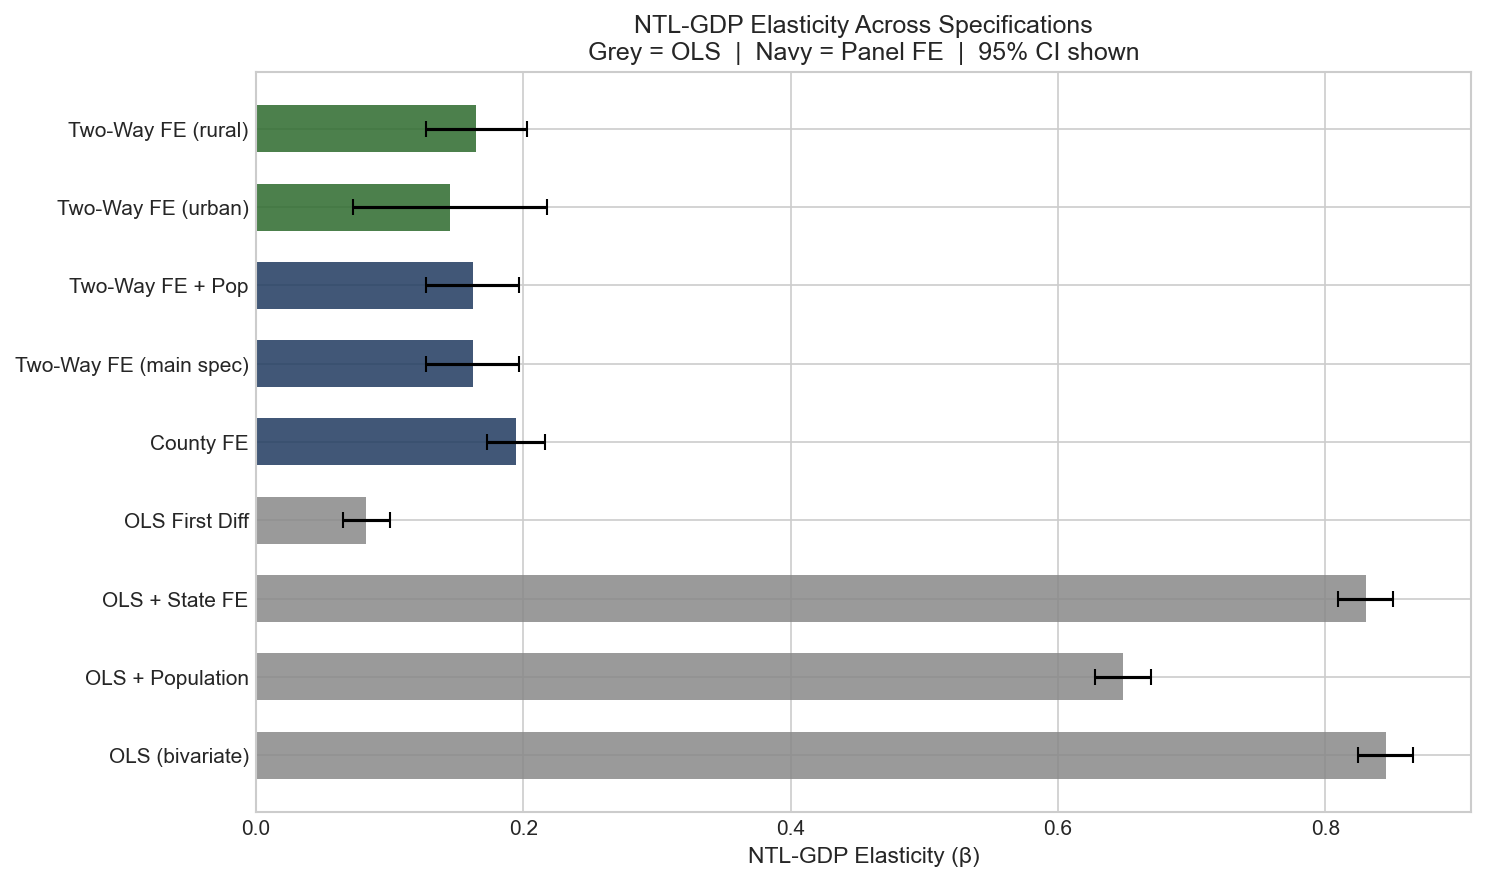
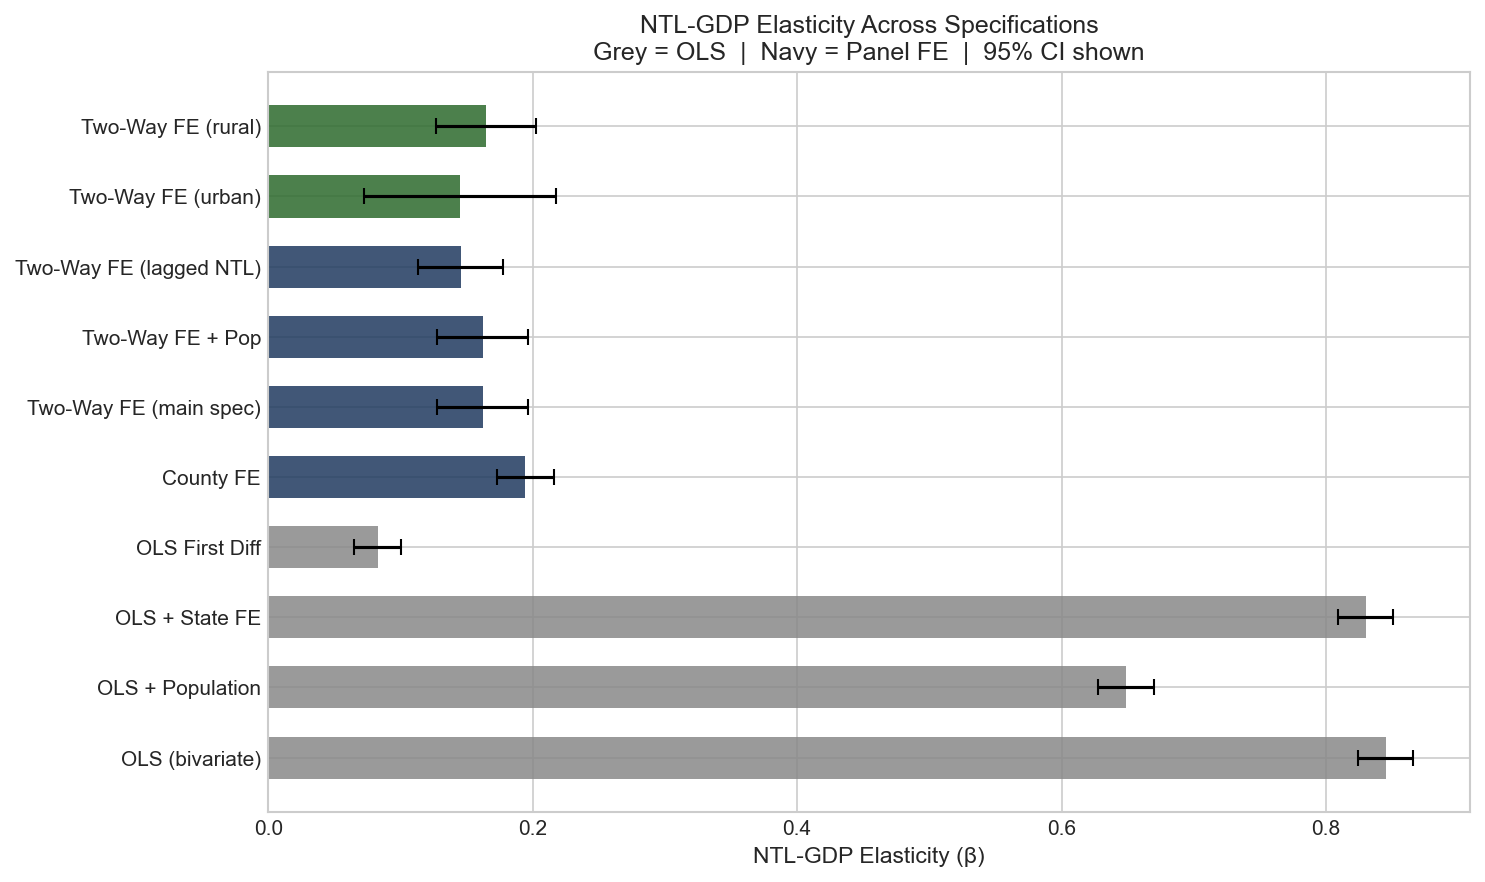
Add light-vs-population horse race and lagged-NTL robustness check

diff --git a/src/horse_race.py b/src/horse_race.py
@@ -1,0 +1,124 @@
+"""
+Does nighttime light improve GDP prediction beyond population?
+
+For a proxy to earn its place, lights must add predictive value over something
+cheap you already know: population. This runs a formal out-of-sample horse race
+of GDP ~ population against GDP ~ population + lights, two ways:
+
+  (A) LEVELS, across counties. GroupKFold by county, so a county is wholly in
+      train or test and we measure transfer to counties never seen. Year
+      effects included. This is the "proxy for the size of a place" question.
+
+  (B) CHANGES, within counties. Same CV, on year-to-year growth. This is the
+      "proxy for how a place is changing" question. Note population is nearly
+      constant here (Census county population is capped at 2019 and reused),
+      so the growth baseline is weak by construction, which is worth stating.
+
+Reports out-of-sample R2 and RMSE for the baseline and the full model, and the
+improvement from adding lights. The honest, expected pattern given the rest of
+the project: lights add real value in levels, little in changes.
+"""
+
+import logging
+import numpy as np
+import pandas as pd
+from sklearn.linear_model import LinearRegression
+from sklearn.model_selection import GroupKFold
+from sklearn.metrics import r2_score, mean_squared_error
+
+from src.config import OUTPUT_TAB
+
+log = logging.getLogger(__name__)
+
+
+def _oos(X_base, X_full, y, groups, n_splits):
+    """Pooled out-of-sample predictions for baseline and full feature sets."""
+    bp, fp = np.zeros_like(y, dtype=float), np.zeros_like(y, dtype=float)
+    for tr, te in GroupKFold(n_splits=n_splits).split(X_base, y, groups):
+        bp[te] = LinearRegression().fit(X_base[tr], y[tr]).predict(X_base[te])
+        fp[te] = LinearRegression().fit(X_full[tr], y[tr]).predict(X_full[te])
+    b_rmse = np.sqrt(mean_squared_error(y, bp))
+    f_rmse = np.sqrt(mean_squared_error(y, fp))
+    return {
+        "base_r2": r2_score(y, bp), "full_r2": r2_score(y, fp),
+        "base_rmse": b_rmse, "full_rmse": f_rmse,
+        "delta_r2": r2_score(y, fp) - r2_score(y, bp),
+        "rmse_reduction_pct": (b_rmse - f_rmse) / b_rmse * 100,
+        "n": int(len(y)),
+    }
+
+
+def run_horse_race(panel, n_splits=5, save=True):
+    results = {}
+
+    # ---- (A) LEVELS: predict ln(GDP) for unseen counties ----
+    df = panel.replace([np.inf, -np.inf], np.nan).dropna(
+        subset=["ln_gdp", "ln_pop", "ln_ntl", "fips", "year"]).copy()
+    yd = pd.get_dummies(df["year"], prefix="yr", drop_first=True, dtype=float)
+    X_base = pd.concat([df[["ln_pop"]], yd], axis=1).values
+    X_full = pd.concat([df[["ln_pop", "ln_ntl"]], yd], axis=1).values
+    results["levels"] = _oos(X_base, X_full, df["ln_gdp"].values,
+                             df["fips"].values, n_splits)
+
+    # ---- (B) CHANGES: predict GDP growth, beyond population growth ----
+    g = panel.replace([np.inf, -np.inf], np.nan).sort_values(
+        ["fips", "year"]).copy()
+    g["pop_growth"] = g.groupby("fips")["ln_pop"].diff()
+    g = g.dropna(subset=["gdp_growth", "ntl_growth", "pop_growth", "fips"])
+    Xb = g[["pop_growth"]].values
+    Xf = g[["pop_growth", "ntl_growth"]].values
+    results["changes"] = _oos(Xb, Xf, g["gdp_growth"].values,
+                              g["fips"].values, n_splits)
+
+    rows = [{
+        "test": k,
+        "baseline_R2": round(r["base_r2"], 4),
+        "plus_lights_R2": round(r["full_r2"], 4),
+        "delta_R2": round(r["delta_r2"], 4),
+        "RMSE_reduction_%": round(r["rmse_reduction_pct"], 2),
+        "n": r["n"],
+    } for k, r in results.items()]
+    table = pd.DataFrame(rows).set_index("test")
+
+    log.info("\nLight-vs-population horse race (out-of-sample, GroupKFold by "
+             "county):\n" + table.to_string())
+    log.info("Reading it: baseline = population only; plus_lights adds ln(NTL). "
+             "delta_R2 and RMSE reduction are what lights buy beyond population.")
+
+    if save:
+        table.to_csv(OUTPUT_TAB / "horse_race.csv")
+    return results
+
+
+def plot_horse_race(results, save_path=None):
+    import matplotlib.pyplot as plt
+    from src.config import OUTPUT_FIG, NAVY, AMBER
+
+    tests = ["levels", "changes"]
+    labels = ["Levels\n(GDP size across counties)",
+              "Changes\n(GDP growth within counties)"]
+    base = [results[t]["base_r2"] for t in tests]
+    full = [results[t]["full_r2"] for t in tests]
+
+    x = np.arange(len(tests))
+    w = 0.38
+    fig, ax = plt.subplots(figsize=(9, 5.5))
+    ax.bar(x - w / 2, base, w, label="Population only", color=NAVY)
+    ax.bar(x + w / 2, full, w, label="Population + lights", color=AMBER)
+    for i, t in enumerate(tests):
+        ax.annotate(f"+{results[t]['delta_r2']:.3f}",
+                    (x[i] + w / 2, full[i]), textcoords="offset points",
+                    xytext=(0, 4), ha="center", fontsize=10)
+    ax.axhline(0, color="black", linewidth=0.8)
+    ax.set_xticks(x)
+    ax.set_xticklabels(labels)
+    ax.set_ylabel("Out-of-sample R-squared")
+    ax.set_title("Does light add anything beyond population?\n"
+                 "Out-of-sample GDP prediction, GroupKFold by county")
+    ax.legend()
+    fig.tight_layout()
+    out = save_path or (OUTPUT_FIG / "horse_race.png")
+    fig.savefig(out, dpi=200, bbox_inches="tight")
+    plt.close(fig)
+    log.info(f"[viz] saved {out}")
+    return out

diff --git a/main.py b/main.py
@@ -83,9 +83,10 @@ def run_pipeline(rebuild: bool = True):
 
     # ── Phase 5: Panel fixed effects ─────────────────────────
     log.info("=== PHASE 5: Panel Fixed Effects ===")
-    from src.panel_fe import run_twoway_fe, run_heterogeneous_fe
+    from src.panel_fe import run_twoway_fe, run_heterogeneous_fe, run_lag_fe
     fe_results = run_twoway_fe(panel)
     hetero_results = run_heterogeneous_fe(panel)
+    fe_results.update(run_lag_fe(panel))
 
     # ── Phase 6: Spatial model ───────────────────────────────
     log.info("=== PHASE 6: Spatial Model ===")
@@ -101,6 +102,12 @@ def run_pipeline(rebuild: bool = True):
     log.info("=== PHASE 7: Nowcasting ===")
     from src.nowcasting import run_nowcasting
     nowcast_results = run_nowcasting(panel)
+
+    # ── Phase 7b: Light-vs-population horse race ─────────────
+    log.info("=== PHASE 7b: Horse Race (light beyond population) ===")
+    from src.horse_race import run_horse_race, plot_horse_race
+    hr = run_horse_race(panel)
+    plot_horse_race(hr)
 
     # ── Phase 8: Visualizations ──────────────────────────────
     log.info("=== PHASE 8: Visualizations ===")

diff --git a/src/panel_fe.py b/src/panel_fe.py
@@ -37,6 +37,31 @@ def run_twoway_fe(panel):
     _save(results)
     return results
 
+def run_lag_fe(panel):
+    """
+    Robustness check: two-way FE with LAGGED luminosity, lum_{i,t-1}, plus
+    population. Lagging lights reduces simultaneity, since this year's GDP
+    cannot drive last year's light. Drops the first sample year (2016), which
+    has no prior year to lag from. This is a robustness check on the main
+    spec
+    """
+    from linearmodels.panel import PanelOLS
+    df = panel.sort_values(["fips", "year"]).copy()
+    df["ln_ntl_lag"] = df.groupby("fips")["ln_ntl"].shift(1)
+    df["fips"] = df["fips"].astype(str)
+    df["year"] = pd.to_datetime(df["year"], format="%Y")
+    df = df.dropna(subset=["ln_gdp", "ln_ntl_lag", "ln_pop"])
+    df = df.set_index(["fips", "year"])
+
+    res = PanelOLS(df["ln_gdp"], df[["ln_ntl_lag", "ln_pop"]],
+                   entity_effects=True, time_effects=True,
+                   drop_absorbed=True).fit(
+        cov_type="clustered", cluster_entity=True)
+    b = res.params["ln_ntl_lag"]
+    se = res.std_errors["ln_ntl_lag"]
+    log.info(f"fe_twoway_lag: beta(ln_ntl_lag) = {b:.4f} (SE={se:.4f}), "
+             f"nobs={int(res.nobs)}")
+    return {"fe_twoway_lag": res}
 
 def _save(results):
     rows = []

diff --git a/src/visualizations.py b/src/visualizations.py
@@ -103,18 +103,20 @@ def plot_coefficient_comparison(ols_results, fe_results, hetero_results=None):
             ses.append(float(res.bse[var]))
             labels.append("OLS")
 
-    fe_map = {"fe_entity":     "County FE",
-              "fe_twoway": "Two-Way FE (main spec)",
-              "fe_twoway_pop": "Two-Way FE + Pop"}
-    for name, label in fe_map.items():
+    fe_map = {"fe_entity":     ("County FE", "ln_ntl"),
+              "fe_twoway":     ("Two-Way FE (main spec)", "ln_ntl"),
+              "fe_twoway_pop": ("Two-Way FE + Pop", "ln_ntl"),
+              "fe_twoway_lag": ("Two-Way FE (lagged NTL)", "ln_ntl_lag")}
+    for name, (label, var) in fe_map.items():
         if name not in fe_results:
             continue
         res = fe_results[name]
-        if "ln_ntl" in res.params.index:
+        if var in res.params.index:
             models.append(label)
-            coefs.append(float(res.params["ln_ntl"]))
-            ses.append(float(res.std_errors["ln_ntl"]))
+            coefs.append(float(res.params[var]))
+            ses.append(float(res.std_errors[var]))
             labels.append("Panel FE")
+
 
     if hetero_results:
         for name, res in hetero_results.items():
